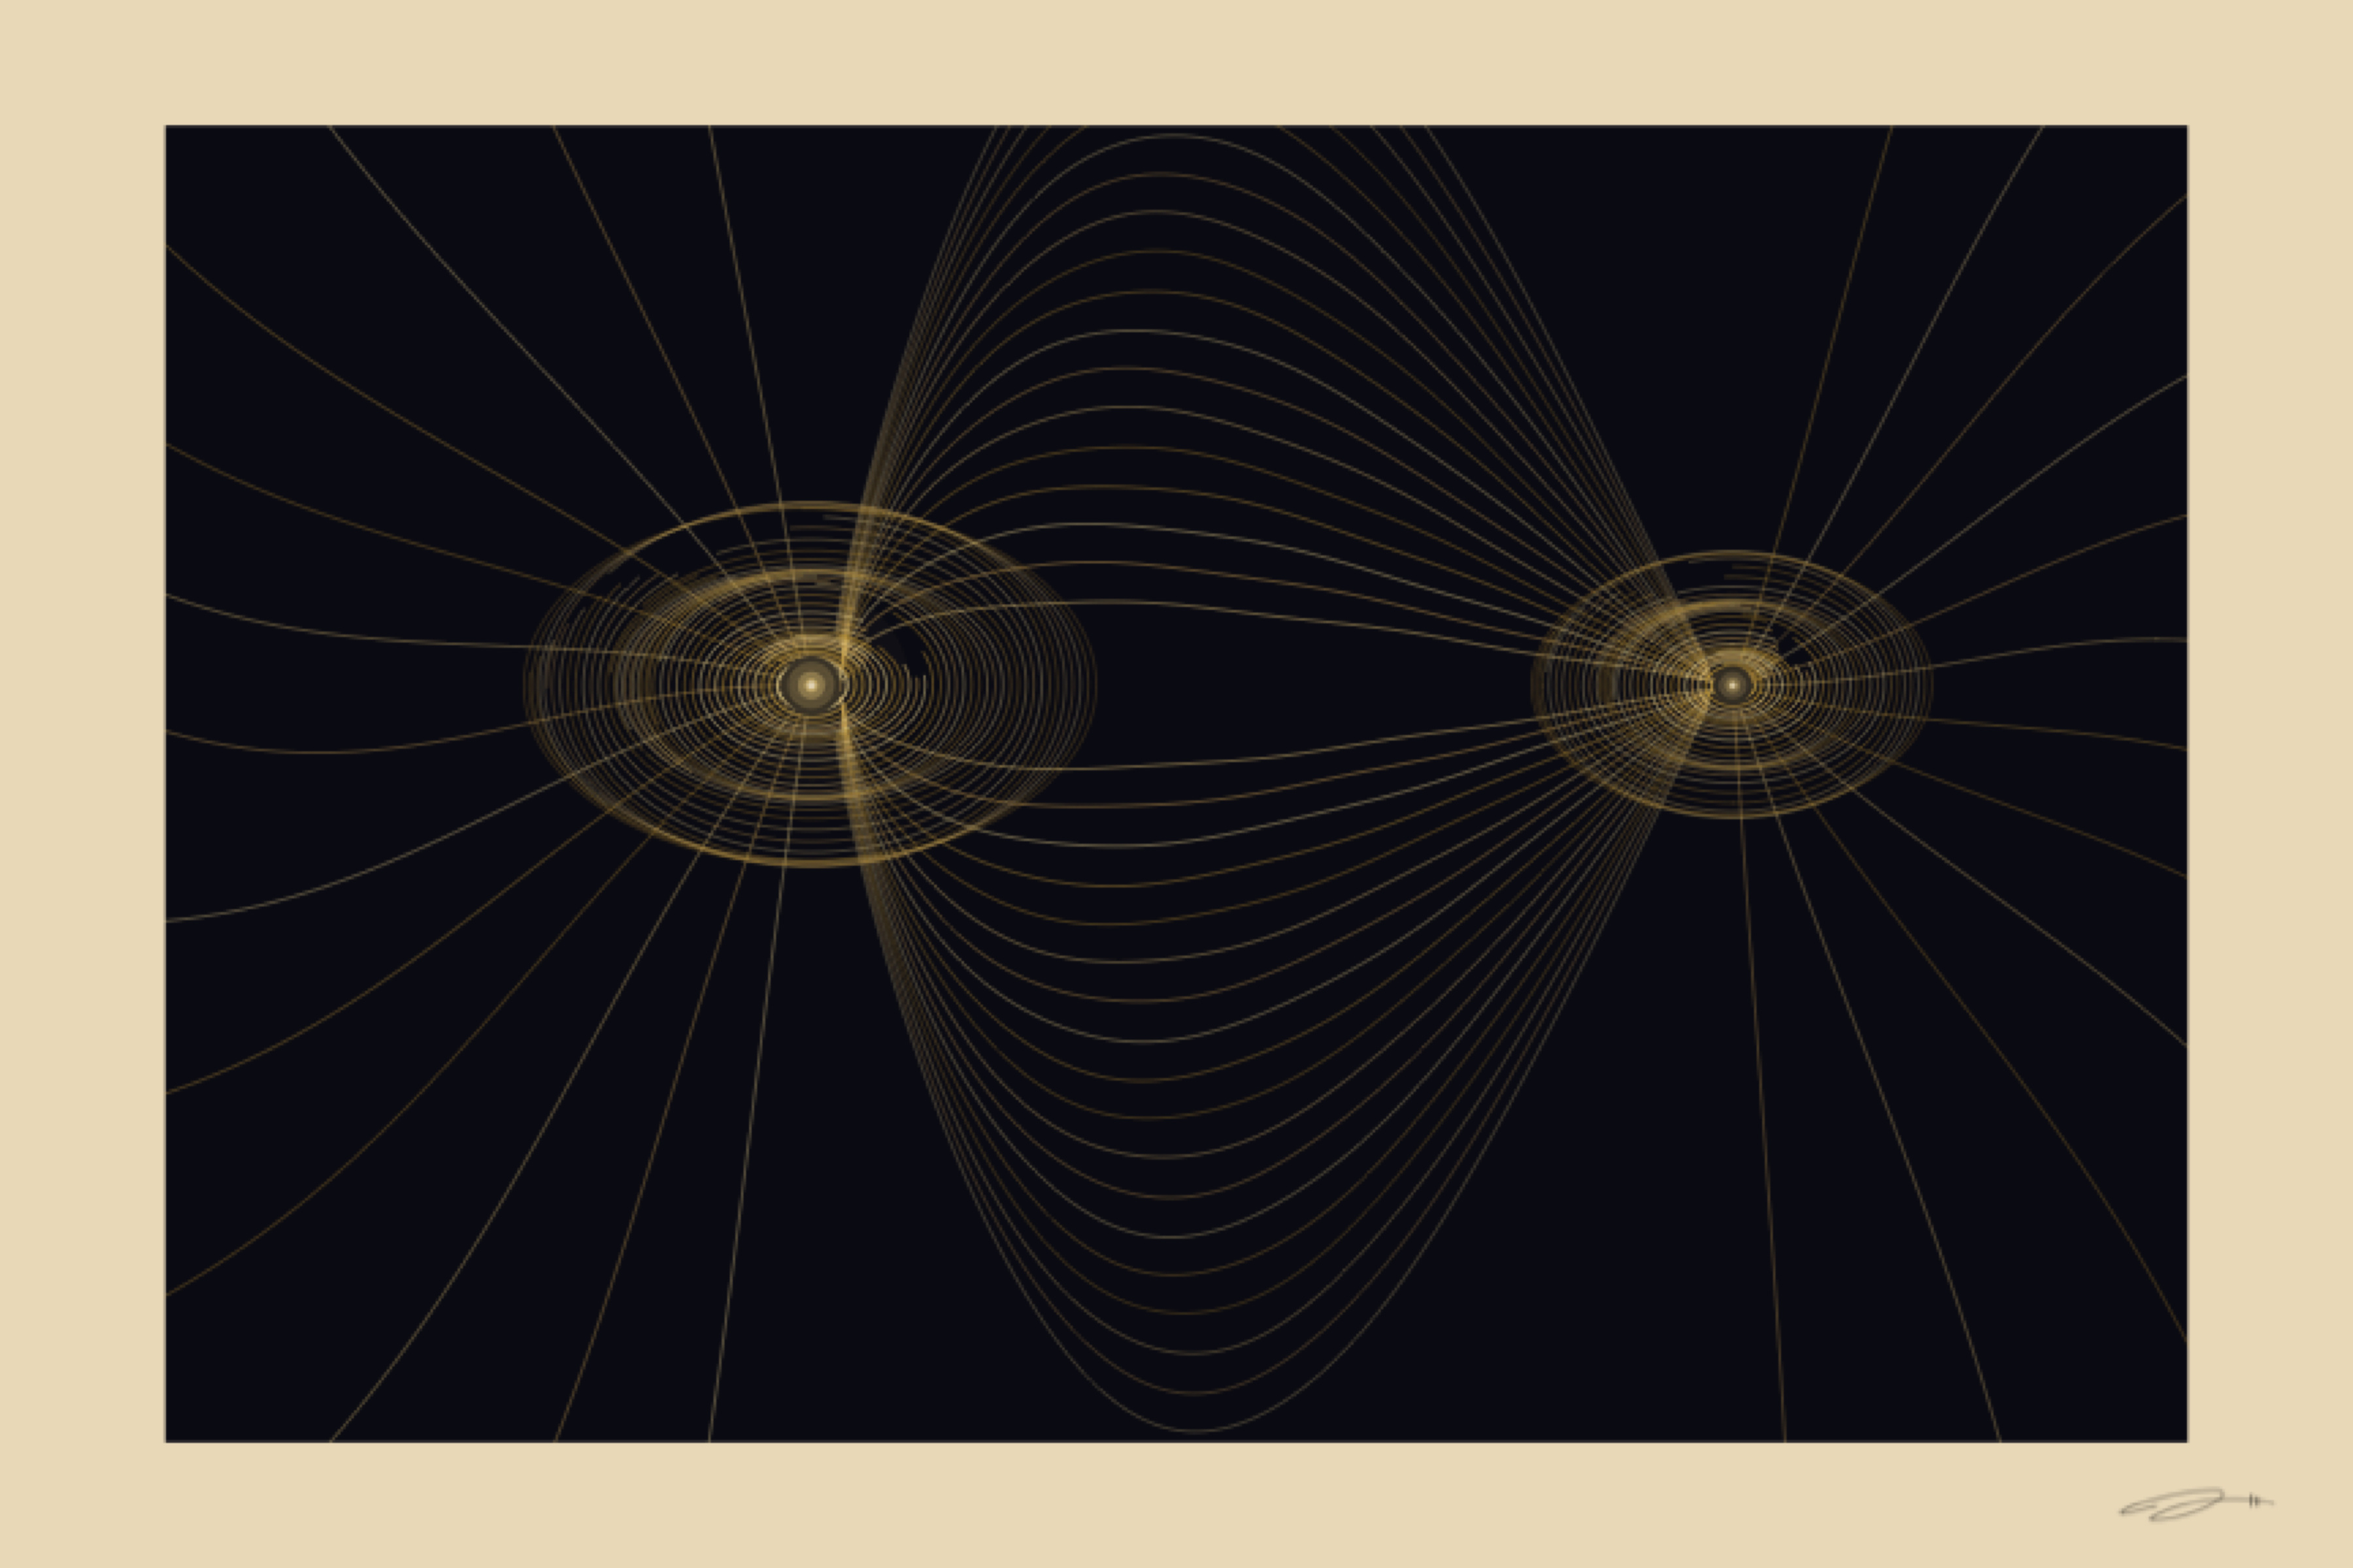
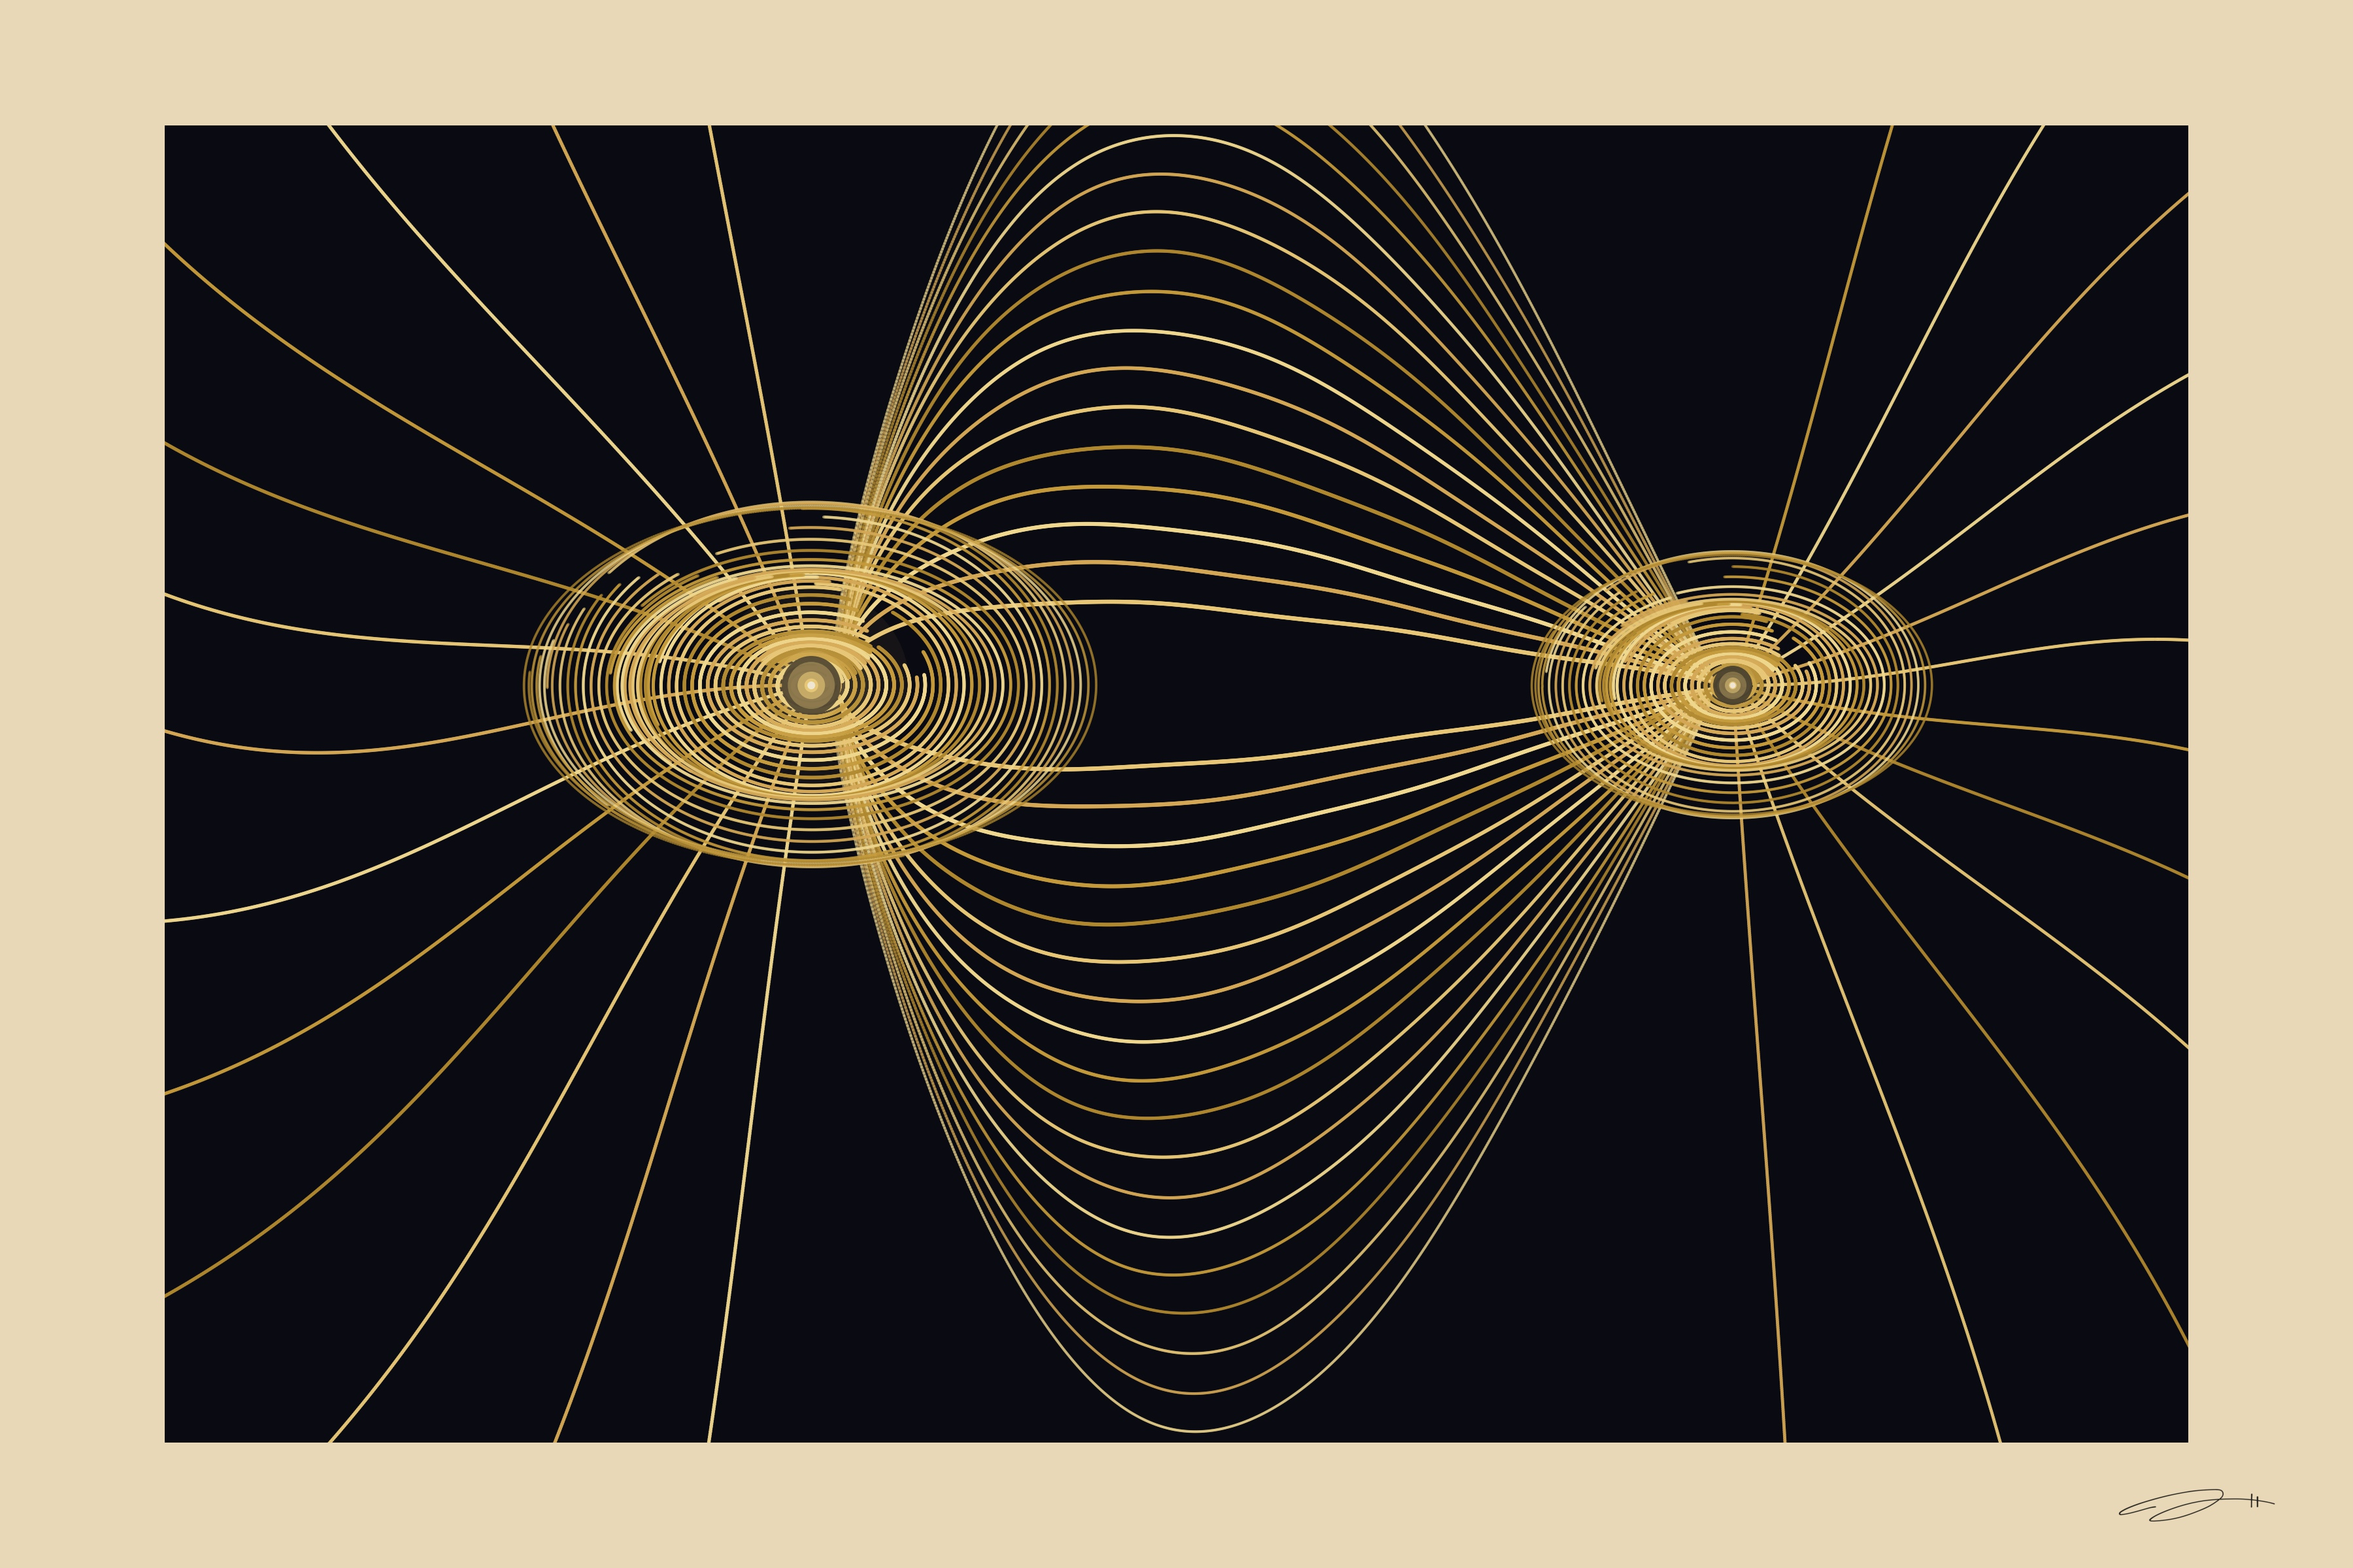
Punch up Magnetic web thumbnail — alpha 1.8, lineweight 1.8
Field lines were reading too thin at homepage thumbnail size. Refactored
render() to accept alpha_boost/lw_boost and added a punchier web render
while keeping the print PDF at original weight.

diff --git a/mathematical_affect/pieces/connection/connection_magnetic.py b/mathematical_affect/pieces/connection/connection_magnetic.py
@@ -100,17 +100,9 @@ def split_segments(xs, ys, mask):
         segments.append((xs[start:], ys[start:]))
     return segments
 
-def save(fig, name):
-    os.makedirs(OUTPUT_DIR, exist_ok=True)
-    if not name.endswith(".pdf"):
-        name = name + ".pdf"
-    fig.savefig(os.path.join(OUTPUT_DIR, name),
-                format='pdf', facecolor=MARGIN_COLOR)
-    plt.close(fig)
-    print(f"saved {name}")
-
 SCRIPT_DIR = os.path.dirname(os.path.abspath(__file__))
 OUTPUT_DIR = os.path.join(SCRIPT_DIR, '..', '..', 'output')
+PRINT_DIR = os.path.join(SCRIPT_DIR, '..', '..', '..', 'public', 'prints', 'connection')
 
 def trace_field_line(x, y, poles, step=0.012, max_steps=2000, direction=1):
     """Trace a field line through monopole field.
@@ -140,7 +132,7 @@ def trace_field_line(x, y, poles, step=0.012, max_steps=2000, direction=1):
                 return np.array(xs_f), np.array(ys_f)
     return np.array(xs_f), np.array(ys_f)
 
-def render():
+def render(alpha_boost=1.0, lw_boost=1.0):
     fig, ax = make_fig()
     np.random.seed(42)
     from matplotlib.patches import Circle
@@ -186,6 +178,8 @@ def render():
             lw = 0.85 - 0.30 * frac
             if alpha < 0.15: alpha = 0.15
             if lw < 0.30: lw = 0.30
+            alpha = min(alpha * alpha_boost, 0.95)
+            lw = lw * lw_boost
             for seg_xs, seg_ys in split_segments(xs_a, ys_a, mask):
                 if len(seg_xs) < 5: continue
                 draw_lc(ax, seg_xs, seg_ys, col, lw=lw, alpha=alpha, zo=4, smooth=1)
@@ -213,7 +207,10 @@ def render():
         col = gold_cols[i % len(gold_cols)]
         for seg_xs, seg_ys in split_segments(xs_e, ys_e, mask):
             if len(seg_xs) < 5: continue
-            draw_lc(ax, seg_xs, seg_ys, col, lw=0.7, alpha=0.45, zo=3, smooth=1)
+            draw_lc(ax, seg_xs, seg_ys, col,
+                    lw=0.7 * lw_boost,
+                    alpha=min(0.45 * alpha_boost, 0.95),
+                    zo=3, smooth=1)
 
     # --- C) Dense concentric spiral orbits around N pole (LEFT, LARGER) ---
     n_orbits_left = 35
@@ -235,6 +232,8 @@ def render():
         lw = 0.85 * (1.0 - 0.4 * frac)
         if alpha < 0.10: alpha = 0.10
         if lw < 0.20: lw = 0.20
+        alpha = min(alpha * alpha_boost, 0.95)
+        lw = lw * lw_boost
         for seg_xs, seg_ys in split_segments(xs_o, ys_o, mask):
             if len(seg_xs) < 5: continue
             draw_lc(ax, seg_xs, seg_ys, col, lw=lw, alpha=alpha, zo=5, smooth=1)
@@ -259,6 +258,8 @@ def render():
         lw = 0.80 * (1.0 - 0.40 * frac)
         if alpha < 0.10: alpha = 0.10
         if lw < 0.20: lw = 0.20
+        alpha = min(alpha * alpha_boost, 0.95)
+        lw = lw * lw_boost
         for seg_xs, seg_ys in split_segments(xs_o, ys_o, mask):
             if len(seg_xs) < 5: continue
             draw_lc(ax, seg_xs, seg_ys, col, lw=lw, alpha=alpha, zo=5, smooth=1)
@@ -282,7 +283,10 @@ def render():
         col = gold_cols[i % len(gold_cols)]
         for seg_xs, seg_ys in split_segments(xs_e, ys_e, mask):
             if len(seg_xs) < 5: continue
-            draw_lc(ax, seg_xs, seg_ys, col, lw=0.65, alpha=0.40, zo=3, smooth=1)
+            draw_lc(ax, seg_xs, seg_ys, col,
+                    lw=0.65 * lw_boost,
+                    alpha=min(0.40 * alpha_boost, 0.95),
+                    zo=3, smooth=1)
 
     # --- E) Glowing pole centers ---
     # Left pole — dark core with gold glow
@@ -291,9 +295,11 @@ def render():
     for r_c, a in [(0.50, 0.03), (0.30, 0.06), (0.18, 0.12),
                     (0.12, 0.20), (0.07, 0.35), (0.035, 0.55)]:
         ax.add_patch(Circle((n_x, n_y), radius=r_c,
-                     facecolor=rgba(GOLD, a), edgecolor='none', zorder=8))
+                     facecolor=rgba(GOLD, min(a * alpha_boost, 0.95)),
+                     edgecolor='none', zorder=8))
     ax.add_patch(Circle((n_x, n_y), radius=0.020,
-                 facecolor=rgba(WARM_WHITE, 0.70), edgecolor='none', zorder=9))
+                 facecolor=rgba(WARM_WHITE, min(0.70 * alpha_boost, 0.95)),
+                 edgecolor='none', zorder=9))
 
     # Right pole — dark core with gold glow (smaller)
     ax.add_patch(Circle((s_x, s_y), radius=0.10,
@@ -301,12 +307,34 @@ def render():
     for r_c, a in [(0.30, 0.03), (0.18, 0.05), (0.12, 0.10),
                     (0.07, 0.18), (0.04, 0.30), (0.020, 0.50)]:
         ax.add_patch(Circle((s_x, s_y), radius=r_c,
-                     facecolor=rgba(GOLD, a), edgecolor='none', zorder=8))
+                     facecolor=rgba(GOLD, min(a * alpha_boost, 0.95)),
+                     edgecolor='none', zorder=8))
     ax.add_patch(Circle((s_x, s_y), radius=0.015,
-                 facecolor=rgba(WARM_WHITE, 0.65), edgecolor='none', zorder=9))
+                 facecolor=rgba(WARM_WHITE, min(0.65 * alpha_boost, 0.95)),
+                 edgecolor='none', zorder=9))
 
     add_signature(fig, ax, MARGIN_COLOR, margin_piece=True, margin_bottom=FIG_H * 0.08)
-    save(fig, "connection_magnetic.pdf")
+    return fig
+
 
 if __name__ == '__main__':
-    render()
+    os.makedirs(OUTPUT_DIR, exist_ok=True)
+    os.makedirs(PRINT_DIR, exist_ok=True)
+    print("═══ Connection: Magnetic ═══")
+
+    # Print PDF — original weight
+    fig = render(alpha_boost=1.0, lw_boost=1.0)
+    pdf_path = os.path.join(OUTPUT_DIR, "connection_magnetic.pdf")
+    fig.savefig(pdf_path, format='pdf', facecolor=MARGIN_COLOR)
+    print(f"  saved {pdf_path}")
+    plt.close(fig)
+
+    # Web thumbnail — punchier so field lines read boldly at thumbnail size
+    fig = render(alpha_boost=1.8, lw_boost=1.8)
+    jpg_path = os.path.join(PRINT_DIR, "connection_magnetic.jpg")
+    fig.savefig(jpg_path, facecolor=MARGIN_COLOR, dpi=DPI,
+                pil_kwargs={"quality": 96})
+    print(f"  saved {jpg_path}")
+    plt.close(fig)
+
+    print("═══ Done ═══")
